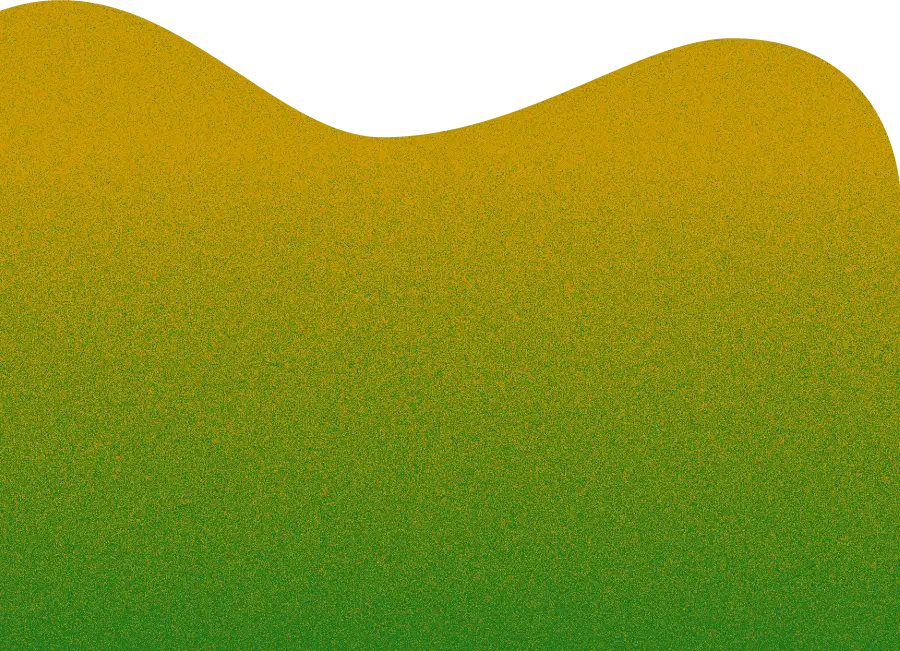
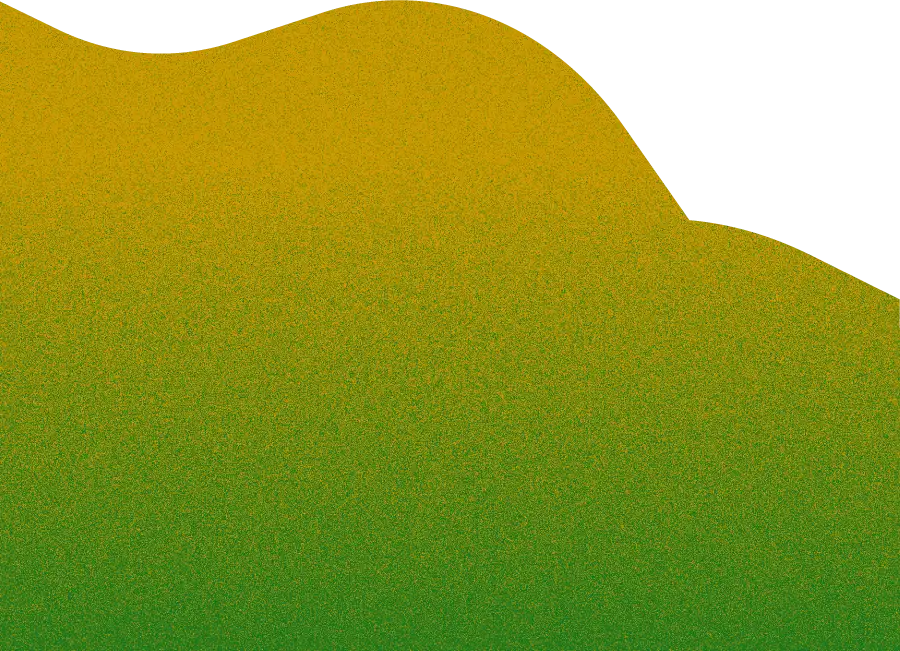
chore: landform の素材を差し替え、マニフェストを作り直した
MorningMeadow 24 / SnowyMountain 24 / WindyMeadow 20 / cloud 3（計82件）。

WindyMeadow-19-b.webp だけ 900x786 で書き出されており、設計の縦横比
（2049 : 1481 / 1781 / 2241）から外れて check:mountain が落ちたため、
900x782 に合わせ直した（切り詰めではなく 0.5% の縮小・透過は維持）。

diff --git a/public/js/mountainAssets.generated.js b/public/js/mountainAssets.generated.js
@@ -16,10 +16,10 @@ export const BG_ASSETS = {
       {"n":"1","c":"b","w":900,"h":650,"f":"MorningMeadow-1-b.webp","v":"7cedc819"},
       {"n":"2","c":"c","w":900,"h":650,"f":"MorningMeadow-2-c.webp","v":"7740e3bc"},
       {"n":"3","c":"b","w":900,"h":782,"f":"MorningMeadow-3-b.webp","v":"75ace546"},
-      {"n":"4","c":"a","w":900,"h":782,"f":"MorningMeadow-4-a.webp","v":"8223425f"},
+      {"n":"4","c":"b","w":900,"h":651,"f":"MorningMeadow-4-b.webp","v":"9116b5a7"},
       {"n":"5","c":"b","w":900,"h":650,"f":"MorningMeadow-5-b.webp","v":"a50a376f"},
       {"n":"6","c":"c","w":900,"h":650,"f":"MorningMeadow-6-c.webp","v":"b3e5a824"},
-      {"n":"7","c":"a","w":900,"h":782,"f":"MorningMeadow-7-a.webp","v":"1539b776"},
+      {"n":"7","c":"c","w":900,"h":651,"f":"MorningMeadow-7-c.webp","v":"3bd10dd4"},
       {"n":"8","c":"a","w":900,"h":650,"f":"MorningMeadow-8-a.webp","v":"9b6ea887"},
       {"n":"9","c":"b","w":900,"h":782,"f":"MorningMeadow-9-b.webp","v":"c32ddd48"},
       {"n":"10","c":"c","w":900,"h":782,"f":"MorningMeadow-10-c.webp","v":"29017931"},
@@ -34,13 +34,9 @@ export const BG_ASSETS = {
       {"n":"19","c":"a","w":900,"h":783,"f":"MorningMeadow-19-a.webp","v":"776850c3"},
       {"n":"20","c":"b","w":900,"h":651,"f":"MorningMeadow-20-b.webp","v":"8835b1ca"},
       {"n":"21","c":"a","w":900,"h":984,"f":"MorningMeadow-21-a.webp","v":"72282866"},
-      {"n":"22","c":"a","w":900,"h":651,"f":"MorningMeadow-22-a.webp","v":"31a597b1"},
+      {"n":"22","c":"a","w":900,"h":651,"f":"MorningMeadow-22-a.webp","v":"bf054639"},
       {"n":"23","c":"b","w":900,"h":651,"f":"MorningMeadow-23-b.webp","v":"6f871b06"},
       {"n":"24","c":"a","w":900,"h":650,"f":"MorningMeadow-24-a.webp","v":"c5eece4a"},
-      {"n":"25","c":"b","w":900,"h":651,"f":"MorningMeadow-25-b.webp","v":"9116b5a7"},
-      {"n":"26","c":"a","w":900,"h":651,"f":"MorningMeadow-26-a.webp","v":"bf054639"},
-      {"n":"27","c":"a","w":900,"h":782,"f":"MorningMeadow-27-a.webp","v":"139111ec"},
-      {"n":"28","c":"c","w":900,"h":651,"f":"MorningMeadow-28-c.webp","v":"3bd10dd4"},
     ],
     WorldSpawnedObjects: [
       {"n":"1","w":213,"h":358,"f":"MorningMeadow-1.webp","v":"dda1d729"},
@@ -61,60 +57,49 @@ export const BG_ASSETS = {
       {"n":"5","c":"c","w":900,"h":650,"f":"SnowyMountain-5-c.webp","v":"70911c52"},
       {"n":"6","c":"c","w":900,"h":650,"f":"SnowyMountain-6-c.webp","v":"d83b3c0c"},
       {"n":"7","c":"a","w":900,"h":651,"f":"SnowyMountain-7-a.webp","v":"77a25675"},
-      {"n":"8","c":"a","w":900,"h":651,"f":"SnowyMountain-8-a.webp","v":"1ae7ea6d"},
-      {"n":"9","c":"b","w":900,"h":651,"f":"SnowyMountain-9-b.webp","v":"8c0bbed4"},
-      {"n":"10","c":"b","w":900,"h":651,"f":"SnowyMountain-10-b.webp","v":"f1e532c0"},
-      {"n":"11","c":"c","w":900,"h":651,"f":"SnowyMountain-11-c.webp","v":"2e21bcc9"},
-      {"n":"12","c":"c","w":900,"h":651,"f":"SnowyMountain-12-c.webp","v":"a0ff70a2"},
-      {"n":"13","c":"a","w":900,"h":651,"f":"SnowyMountain-13-a.webp","v":"49ea2263"},
-      {"n":"14","c":"b","w":900,"h":651,"f":"SnowyMountain-14-b.webp","v":"5a3acf5a"},
-      {"n":"15","c":"c","w":900,"h":651,"f":"SnowyMountain-15-c.webp","v":"463a080c"},
-      {"n":"16","c":"a","w":900,"h":782,"f":"SnowyMountain-16-a.webp","v":"41912f72"},
-      {"n":"17","c":"a","w":900,"h":782,"f":"SnowyMountain-17-a.webp","v":"0a072db1"},
-      {"n":"18","c":"b","w":900,"h":782,"f":"SnowyMountain-18-b.webp","v":"b40b04bc"},
-      {"n":"19","c":"b","w":900,"h":782,"f":"SnowyMountain-19-b.webp","v":"095b1a78"},
-      {"n":"20","c":"c","w":900,"h":782,"f":"SnowyMountain-20-c.webp","v":"466a5d2d"},
-      {"n":"21","c":"c","w":900,"h":782,"f":"SnowyMountain-21-c.webp","v":"efa80ea7"},
-      {"n":"22","c":"a","w":900,"h":984,"f":"SnowyMountain-22-a.webp","v":"40018981"},
-      {"n":"23","c":"a","w":900,"h":984,"f":"SnowyMountain-23-a.webp","v":"e4399f17"},
-      {"n":"24","c":"b","w":900,"h":984,"f":"SnowyMountain-24-b.webp","v":"cbef345a"},
-      {"n":"25","c":"b","w":900,"h":984,"f":"SnowyMountain-25-b.webp","v":"4a73133b"},
-      {"n":"26","c":"c","w":900,"h":984,"f":"SnowyMountain-26-c.webp","v":"45270744"},
-      {"n":"27","c":"c","w":900,"h":984,"f":"SnowyMountain-27-c.webp","v":"9f18fa21"},
+      {"n":"8","c":"a","w":900,"h":651,"f":"SnowyMountain-8-a.webp","v":"49ea2263"},
+      {"n":"9","c":"b","w":900,"h":651,"f":"SnowyMountain-9-b.webp","v":"f1e532c0"},
+      {"n":"10","c":"b","w":900,"h":651,"f":"SnowyMountain-10-b.webp","v":"5a3acf5a"},
+      {"n":"11","c":"c","w":900,"h":651,"f":"SnowyMountain-11-c.webp","v":"a0ff70a2"},
+      {"n":"12","c":"c","w":900,"h":651,"f":"SnowyMountain-12-c.webp","v":"463a080c"},
+      {"n":"13","c":"a","w":900,"h":782,"f":"SnowyMountain-13-a.webp","v":"41912f72"},
+      {"n":"14","c":"a","w":900,"h":782,"f":"SnowyMountain-14-a.webp","v":"0a072db1"},
+      {"n":"15","c":"b","w":900,"h":782,"f":"SnowyMountain-15-b.webp","v":"b40b04bc"},
+      {"n":"16","c":"b","w":900,"h":782,"f":"SnowyMountain-16-b.webp","v":"095b1a78"},
+      {"n":"17","c":"c","w":900,"h":782,"f":"SnowyMountain-17-c.webp","v":"466a5d2d"},
+      {"n":"18","c":"c","w":900,"h":782,"f":"SnowyMountain-18-c.webp","v":"efa80ea7"},
+      {"n":"19","c":"a","w":900,"h":984,"f":"SnowyMountain-19-a.webp","v":"40018981"},
+      {"n":"20","c":"a","w":900,"h":984,"f":"SnowyMountain-20-a.webp","v":"e4399f17"},
+      {"n":"21","c":"b","w":900,"h":984,"f":"SnowyMountain-21-b.webp","v":"cbef345a"},
+      {"n":"22","c":"b","w":900,"h":984,"f":"SnowyMountain-22-b.webp","v":"4a73133b"},
+      {"n":"23","c":"c","w":900,"h":984,"f":"SnowyMountain-23-c.webp","v":"45270744"},
+      {"n":"24","c":"c","w":900,"h":984,"f":"SnowyMountain-24-c.webp","v":"9f18fa21"},
     ],
     WorldSpawnedObjects: [],
     phenomenon: [],
   },
   WindyMeadow: {
     landform: [
-      {"n":"1","c":"a","w":900,"h":651,"f":"WindyMeadow-1-a.webp","v":"cb1ba157"},
-      {"n":"2","c":"a","w":900,"h":650,"f":"WindyMeadow-2-a.webp","v":"83d52dc5"},
-      {"n":"3","c":"a","w":900,"h":782,"f":"WindyMeadow-3-a.webp","v":"a00fc072"},
-      {"n":"4","c":"b","w":900,"h":651,"f":"WindyMeadow-4-b.webp","v":"4be57d58"},
-      {"n":"5","c":"c","w":900,"h":651,"f":"WindyMeadow-5-c.webp","v":"ca1ef8eb"},
-      {"n":"6","c":"b","w":900,"h":650,"f":"WindyMeadow-6-b.webp","v":"6b075d0c"},
-      {"n":"7","c":"c","w":900,"h":782,"f":"WindyMeadow-7-c.webp","v":"d50f5840"},
-      {"n":"8","c":"c","w":900,"h":782,"f":"WindyMeadow-8-c.webp","v":"73464b55"},
-      {"n":"9","c":"b","w":900,"h":782,"f":"WindyMeadow-9-b.webp","v":"c2646389"},
-      {"n":"10","c":"b","w":900,"h":782,"f":"WindyMeadow-10-b.webp","v":"e0d38182"},
-      {"n":"11","c":"c","w":900,"h":783,"f":"WindyMeadow-11-c.webp","v":"af072135"},
-      {"n":"12","c":"c","w":900,"h":782,"f":"WindyMeadow-12-c.webp","v":"973955e2"},
-      {"n":"13","c":"b","w":900,"h":651,"f":"WindyMeadow-13-b.webp","v":"64d34f63"},
-      {"n":"14","c":"a","w":900,"h":650,"f":"WindyMeadow-14-a.webp","v":"26d8bc2b"},
-      {"n":"15","c":"a","w":900,"h":650,"f":"WindyMeadow-15-a.webp","v":"6a6c4606"},
-      {"n":"16","c":"b","w":900,"h":650,"f":"WindyMeadow-16-b.webp","v":"b5ee3ed8"},
-      {"n":"17","c":"c","w":900,"h":782,"f":"WindyMeadow-17-c.webp","v":"8a015616"},
-      {"n":"18","c":"a","w":900,"h":984,"f":"WindyMeadow-18-a.webp","v":"b546a661"},
-      {"n":"19","c":"a","w":900,"h":782,"f":"WindyMeadow-19-a.webp","v":"12e88112"},
-      {"n":"20","c":"c","w":900,"h":782,"f":"WindyMeadow-20-c.webp","v":"8cd51427"},
-      {"n":"21","c":"b","w":900,"h":651,"f":"WindyMeadow-21-b.webp","v":"77b86ad3"},
-      {"n":"22","c":"a","w":900,"h":651,"f":"WindyMeadow-22-a.webp","v":"18780c9c"},
-      {"n":"23","c":"b","w":900,"h":650,"f":"WindyMeadow-23-b.webp","v":"907e65c1"},
-      {"n":"24","c":"c","w":900,"h":650,"f":"WindyMeadow-24-c.webp","v":"05c834b6"},
-      {"n":"25","c":"a","w":900,"h":650,"f":"WindyMeadow-25-a.webp","v":"f425c151"},
-      {"n":"26","c":"c","w":900,"h":650,"f":"WindyMeadow-26-c.webp","v":"ed2b7c77"},
-      {"n":"27","c":"c","w":900,"h":782,"f":"WindyMeadow-27-c.webp","v":"9a31c065"},
-      {"n":"28","c":"b","w":900,"h":650,"f":"WindyMeadow-28-b.webp","v":"05064bc8"},
+      {"n":"1","c":"a","w":900,"h":650,"f":"WindyMeadow-1-a.webp","v":"130ffe17"},
+      {"n":"2","c":"a","w":900,"h":650,"f":"WindyMeadow-2-a.webp","v":"e6c730e6"},
+      {"n":"3","c":"a","w":900,"h":782,"f":"WindyMeadow-3-a.webp","v":"8a091044"},
+      {"n":"4","c":"b","w":900,"h":650,"f":"WindyMeadow-4-b.webp","v":"a66da52d"},
+      {"n":"5","c":"c","w":900,"h":650,"f":"WindyMeadow-5-c.webp","v":"7fab7624"},
+      {"n":"6","c":"c","w":900,"h":650,"f":"WindyMeadow-6-c.webp","v":"31356999"},
+      {"n":"7","c":"b","w":900,"h":782,"f":"WindyMeadow-7-b.webp","v":"f16d5e2a"},
+      {"n":"8","c":"b","w":900,"h":782,"f":"WindyMeadow-8-b.webp","v":"8afe1c18"},
+      {"n":"9","c":"c","w":900,"h":782,"f":"WindyMeadow-9-c.webp","v":"7fa5eb4d"},
+      {"n":"10","c":"b","w":900,"h":650,"f":"WindyMeadow-10-b.webp","v":"17917484"},
+      {"n":"11","c":"a","w":900,"h":650,"f":"WindyMeadow-11-a.webp","v":"690150db"},
+      {"n":"12","c":"b","w":900,"h":650,"f":"WindyMeadow-12-b.webp","v":"75323cd2"},
+      {"n":"13","c":"c","w":900,"h":782,"f":"WindyMeadow-13-c.webp","v":"d04689b1"},
+      {"n":"14","c":"a","w":900,"h":984,"f":"WindyMeadow-14-a.webp","v":"957ccf82"},
+      {"n":"15","c":"a","w":900,"h":782,"f":"WindyMeadow-15-a.webp","v":"3343641e"},
+      {"n":"16","c":"c","w":900,"h":782,"f":"WindyMeadow-16-c.webp","v":"9e43ef4d"},
+      {"n":"17","c":"b","w":900,"h":650,"f":"WindyMeadow-17-b.webp","v":"d44bdc88"},
+      {"n":"18","c":"a","w":900,"h":650,"f":"WindyMeadow-18-a.webp","v":"d5f35a6d"},
+      {"n":"19","c":"b","w":900,"h":782,"f":"WindyMeadow-19-b.webp","v":"4eb2d833"},
+      {"n":"20","c":"c","w":900,"h":651,"f":"WindyMeadow-20-c.webp","v":"a391722a"},
     ],
     WorldSpawnedObjects: [
       {"n":"1","w":407,"h":363,"f":"WindyMeadow-1.webp","v":"630580c2"},
